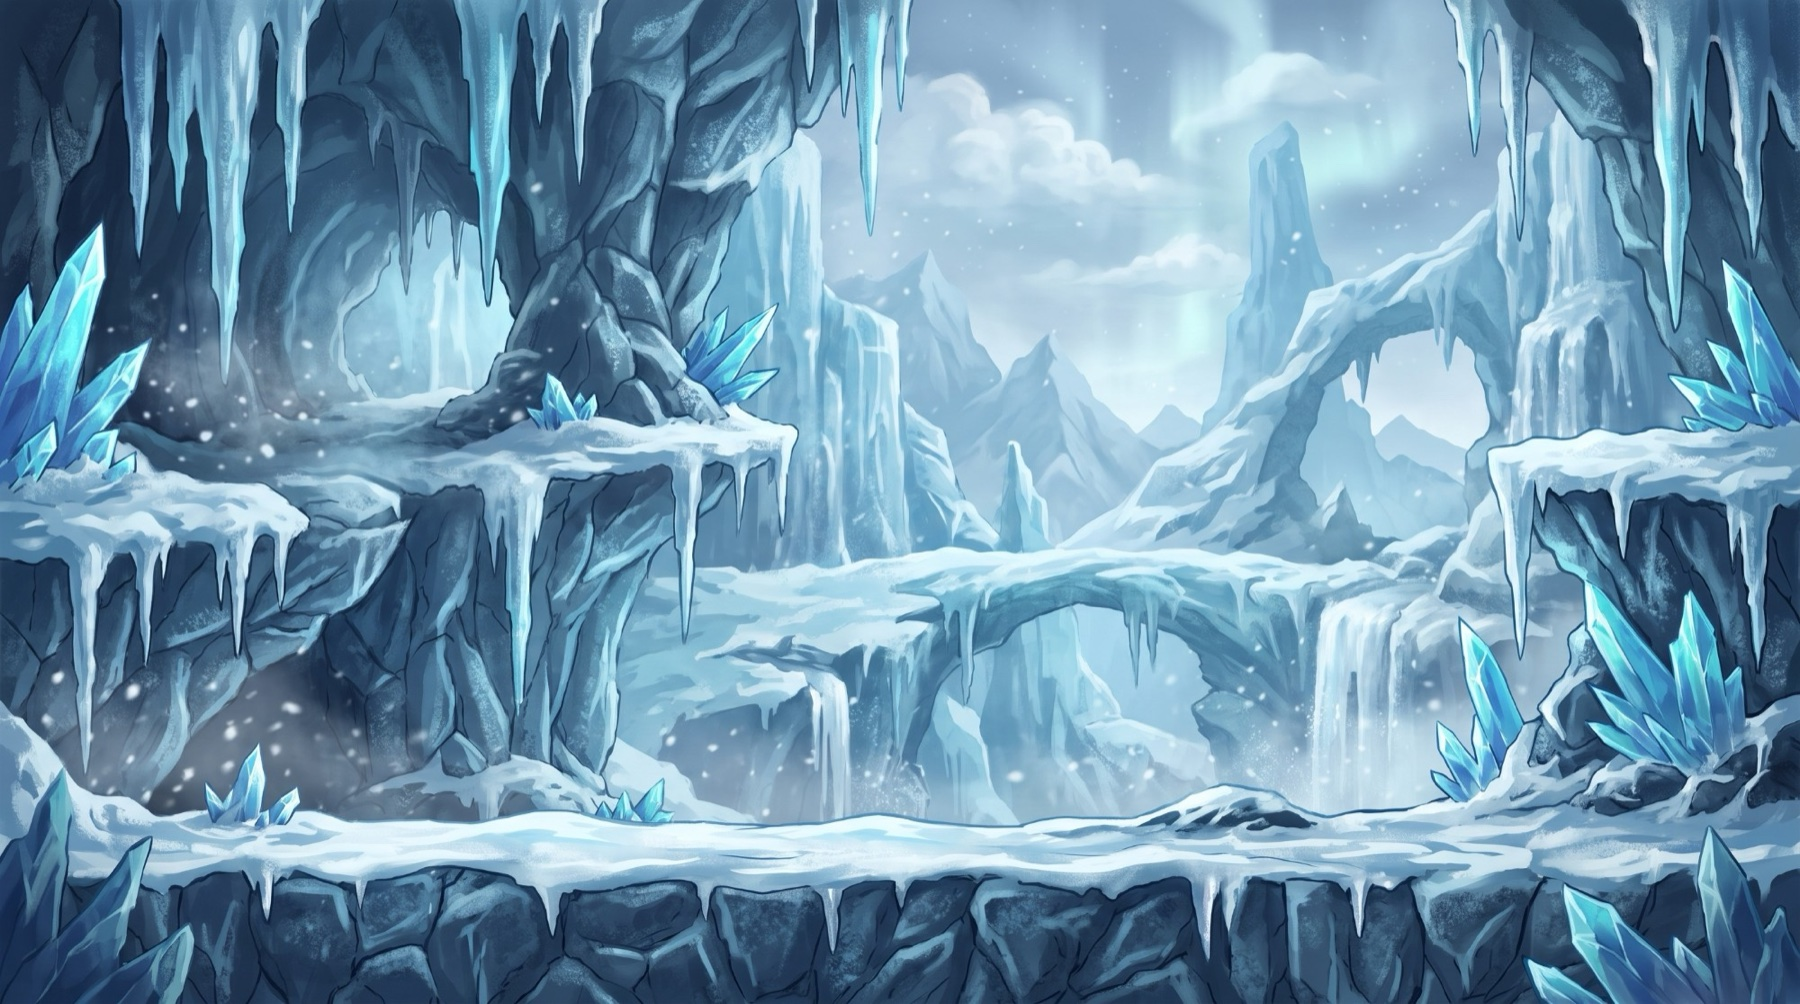
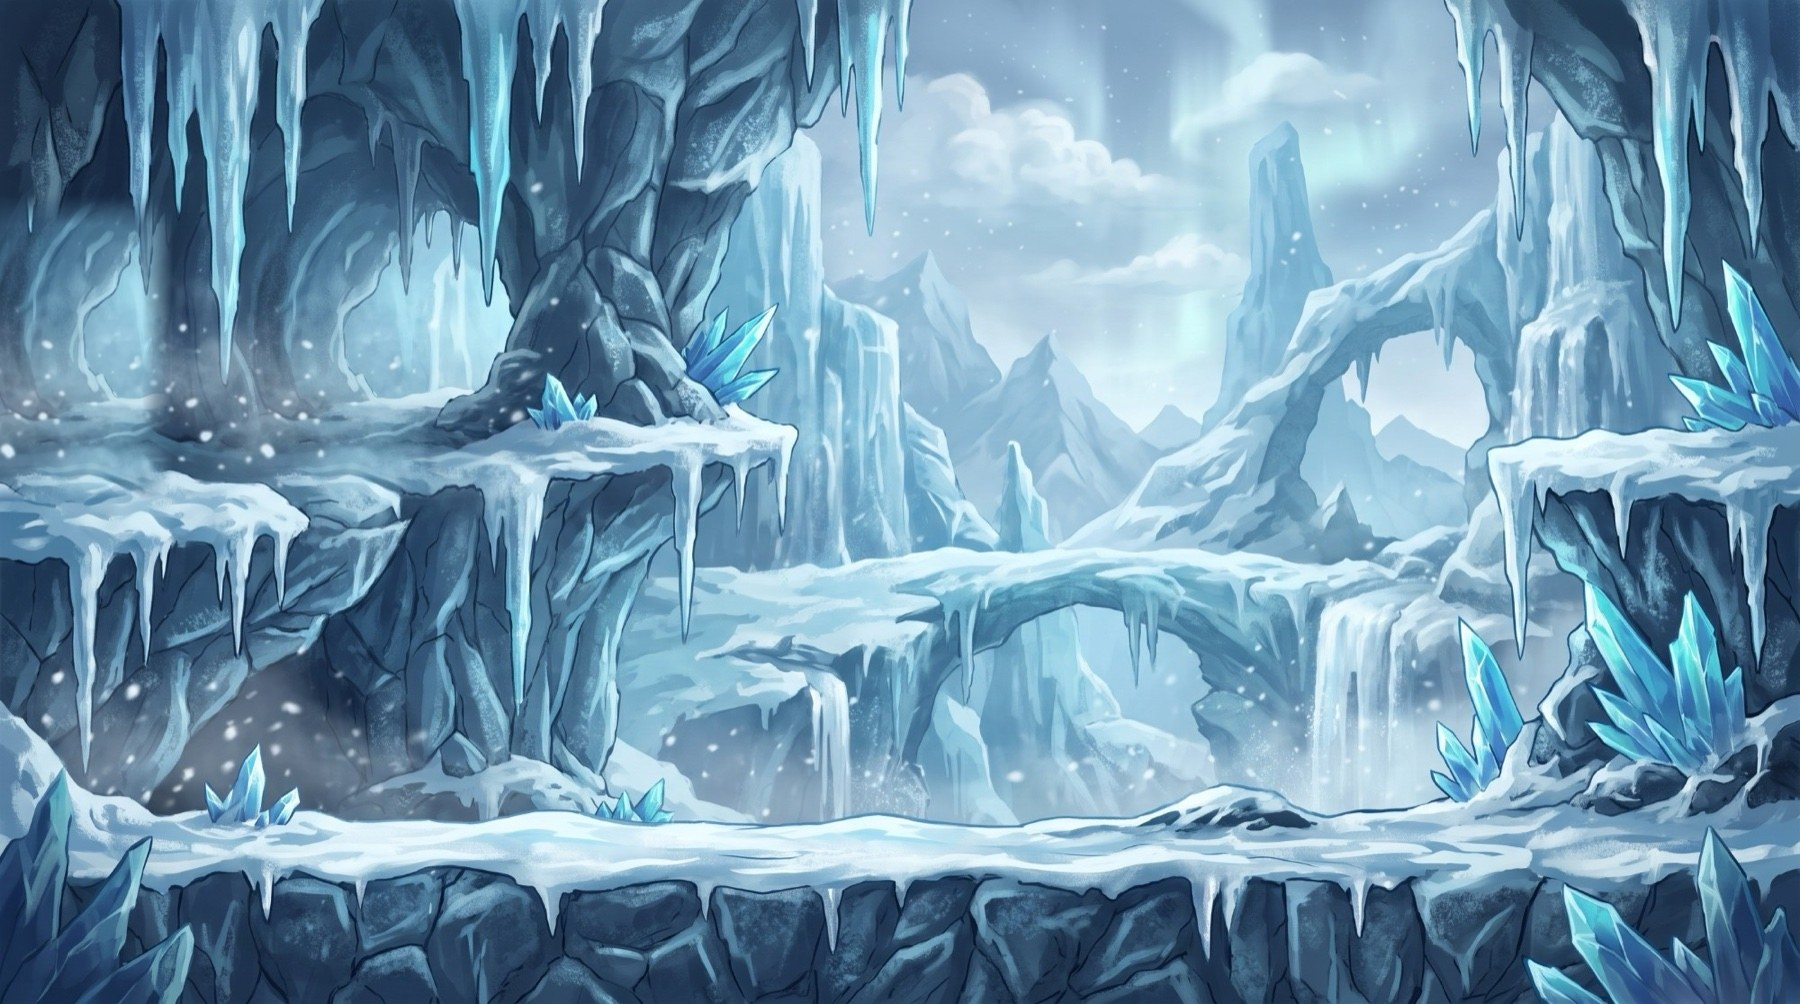
Make Glacier Falls' left-shelf ice breakable, opening a way into the fire boss's room
One hit cracks the crystals, a second shatters them; they fade and the
shelf leads west into the Frozen Spire's east end (and back).

Changed region(s): [[0.0, 0.1853, 0.0933, 0.494]]

diff --git a/index.html b/index.html
@@ -1575,7 +1575,8 @@
       // Not entered through an exit: the Molten Core turns into this stage
       // once the golem is dead. Same floor and width, so the swap is seamless.
       name: "Frozen Spire",
-      exits: { left: 8 },           // right: E, not built yet
+      exits: { left: 8, right: 15 },  // east: once Glacier Falls' crystals are broken, into Glacier Falls
+      crystalBehind: true,
       backdrop: "frost",
       ice: true,
       oneWay: true,
@@ -1952,7 +1953,9 @@
       // world, so they line up). A hole under the ice arch drops into the
       // Frozen Depths.
       name: "Glacier Falls",
-      exits: { right: 7 },
+      exits: { right: 7, left: 3 },   // west: through the crystals, off the low left shelf, into the fire boss's room
+      crystalGate: { edge: 150, top: 120, shelf: 290, x: 92 },   // clear of the flask panel in the corner
+      entryLeft: { x: 30, y: 290 },   // coming back from the boss room: out on the low left shelf
       backdrop: "glacier",
       paintedLevel: true,           // the backdrop is the level: no ground or ledge art drawn over it
       ice: true,
@@ -3021,7 +3024,8 @@
       canDash:false, dashes:0, dashT:0, dashCd:0, airDashUsed:false, dashTrail:[],
       potions:{}, human:false,
       wallHits:0, wallHitCd:0, wallBreakT:-1, wallGone:false,  // the Frozen Den's breakable ice wall
-      hasForceField:false, ffKills:0, ffT:0                    // Itay's heart: a force field every third kill
+      hasForceField:false, ffKills:0, ffT:0,                   // Itay's heart: a force field every third kill
+      crystalHits:0, crystalCd:0, crystalT:-1, crystalGone:false   // Glacier Falls' breakable crystals
     };
     mapOpen = false;
     itemCard = null;
@@ -3118,6 +3122,7 @@
     } else {
       player.x = 40;
       player.facing = 1;
+      if (stage.entryLeft){ player.x = stage.entryLeft.x; player.y = stage.entryLeft.y - player.h; }   // e.g. through Glacier Falls' crystal gap
     }
     player.entryX = player.x;   // where to put the player back after a lava fall
     camX = Math.max(0, Math.min(WORLD_W - VW, player.x + player.w/2 - VW/2));
@@ -3426,7 +3431,7 @@
   // doors between rooms: [roomA, roomB, x, y, vertical]
   var MAP_DOORS = [
     ["12", "0", -9, 28, false], ["0", "1", 121, 28, false], ["1", "4", 251, 28, false], ["4", "5", 381, 28, false],
-    ["1", "boss", 186, 60, true], ["8", "boss", 121, 132, false], ["13", "8", -9, 132, false], ["5", "14", 511, 14, false], ["15", "7", 381, 132, false], ["15", "16", 316, 170, true], ["16", "17", 316, 240, true], ["17", "18", 316, 310, true], ["18", "19", 381, 342, false],
+    ["1", "boss", 186, 60, true], ["8", "boss", 121, 132, false], ["13", "8", -9, 132, false], ["5", "14", 511, 14, false], ["15", "7", 381, 132, false], ["boss", "15", 251, 120, false], ["15", "16", 316, 170, true], ["16", "17", 316, 240, true], ["17", "18", 316, 310, true], ["18", "19", 381, 342, false],
     ["5", "6", 446, 60, true], ["6", "7", 446, 100, true],
     ["9", "10", 816, -172, true], ["10", "11", 881, -222, false]
   ];
@@ -4147,11 +4152,11 @@
 
     // Walking off an edge that has an exit moves to that stage.
     var exits = STAGES[stageIndex].exits || {};
-    if (player.x + player.w >= WORLD_W && player.vx > 0 && exits.right !== undefined && !labLocked()){
+    if (player.x + player.w >= WORLD_W && player.vx > 0 && exits.right !== undefined && !labLocked() && gateOpen("right")){
       loadStage(exits.right, "left");
       return;
     }
-    if (player.x <= 0 && player.vx < 0 && exits.left !== undefined){
+    if (player.x <= 0 && player.vx < 0 && exits.left !== undefined && gateOpen("left")){
       loadStage(exits.left, "right");
       return;
     }
@@ -4161,6 +4166,10 @@
     if (throughWall && player.x <= 0 && player.vx < 0){ loadStage(lwall.breakTo, "right"); return; }
     if (lwall && !throughWall && player.x < lwall.edge){ player.x = lwall.edge; if (player.vx < 0) player.vx = 0; }
     if (STAGES[stageIndex].rightWall && player.x + player.w > TREE_WALL_EDGE() && player.y + player.h > TREE_TOP_Y + 12){ player.x = TREE_WALL_EDGE() - player.w; if (player.vx > 0) player.vx = 0; }
+    var cg = STAGES[stageIndex].crystalGate;
+    if (cg && !player.crystalGone && player.x < cg.edge && player.y + player.h > cg.top && player.y + player.h <= cg.shelf + 12){
+      player.x = cg.edge; if (player.vx < 0) player.vx = 0;
+    }
     var aw = STAGES[stageIndex].arenaWall;
     if (aw && arenaWallUp() && player.x < aw[1] + 6){ player.x = aw[1] + 6; if (player.vx < 0) player.vx = 0; }
     if (player.x + player.w > WORLD_W) player.x = WORLD_W - player.w;
@@ -4237,6 +4246,7 @@
     }
 
     updateIceWall(dt, hitbox);
+    updateCrystalGate(dt, hitbox);
 
     for (var i=0;i<enemies.length;i++){
       var en = enemies[i];
@@ -6936,8 +6946,8 @@
       ctx.textAlign = "left";
     }
     var exits = STAGES[stageIndex].exits || {};
-    if (exits.left !== undefined) hint(0, -1);
-    if (exits.right !== undefined && !labLocked() && !STAGES[stageIndex].rightWall) hint(WORLD_W, 1);   // over the tree is a secret
+    if (exits.left !== undefined && gateOpen("left", true)) hint(0, -1);
+    if (exits.right !== undefined && !labLocked() && !STAGES[stageIndex].rightWall && gateOpen("right", true)) hint(WORLD_W, 1);   // over the tree is a secret
   }
 
   function drawStageBanner(){
@@ -7638,6 +7648,7 @@
     }
     drawProps();
     drawArenaWall();
+    drawCrystalGate();
     drawRightWall();
     drawSummit();
     drawFinishGate();
@@ -8009,6 +8020,60 @@
     var w = treeWallW(), x = WORLD_W - w - camX;
     if (x > VW) return;
     ctx.drawImage(trimmedTree(), x, GROUND_Y + 40 - TREE_H, w, TREE_H);
+  }
+  // Glacier Falls' crystal cluster: it seals the passage west off the low
+  // left shelf. The first hit cracks it, the second shatters it; it holds a
+  // moment, fades, and the way west into the fire boss's room is open (for
+  // good, both ways). stage.crystalGate = { edge, top, shelf, x }:
+  //   edge = the cluster's east face, top/shelf = the band it blocks, x = its centre.
+  var CRYSTAL_ART = [0, 1, 2].map(function(i){ return loadArt("assets/glacier_crystal_" + i + ".webp"); });
+  var CRYSTAL_H = 170, CRYSTAL_HOLD = 26, CRYSTAL_FADE = 34;
+  function gateOpen(side, forHint){
+    var st = STAGES[stageIndex], cg = st.crystalGate;
+    if (cg && side === "left"){
+      if (!player.crystalGone) return false;
+      return forHint || player.y + player.h <= cg.shelf + 12;     // only off the shelf, not the cave floor below
+    }
+    if (st.crystalBehind && side === "right") return !!player.crystalGone;
+    return true;
+  }
+  function updateCrystalGate(dt, hitbox){
+    var cg = STAGES[stageIndex].crystalGate, p = player;
+    if (!cg || p.crystalGone) return;
+    if (p.crystalCd > 0) p.crystalCd -= dt;
+    if (p.crystalT >= 0 && p.crystalHits >= 2){
+      p.crystalT += dt;
+      if (p.crystalT > CRYSTAL_HOLD + CRYSTAL_FADE){ p.crystalGone = true; }
+      return;
+    }
+    var box = rect(cg.x - 60, cg.shelf - CRYSTAL_H + 20, 120, CRYSTAL_H - 20);
+    if (!hitbox || p.crystalCd > 0 || !intersects(hitbox, box)) return;
+    p.crystalCd = 20;
+    p.crystalHits = (p.crystalHits || 0) + 1;
+    var last = p.crystalHits >= 2;
+    playIceBreak();
+    shake = Math.max(shake, last ? 14 : 7);
+    buzz(last ? [60, 40, 120] : [40]);
+    hitStop = Math.max(hitStop, 4);
+    for (var i = 0; i < (last ? 46 : 18); i++){
+      var ang = Math.PI * (0.55 + Math.random() * 0.9), sp = 1.5 + Math.random() * (last ? 6 : 4), life = 20 + Math.random() * 26;
+      explosionParticles.push({ x: cg.edge - 10, y: cg.shelf - 40 - Math.random() * 90, vx: -Math.cos(ang) * sp * -1, vy: -Math.abs(Math.sin(ang)) * sp,
+        life: life, maxLife: life, size: 1.5 + Math.random() * 3, color: ["235,250,255", "150,215,255", "90,170,230"][i % 3] });
+    }
+    if (last) p.crystalT = 0;
+  }
+  function drawCrystalGate(){
+    var cg = STAGES[stageIndex].crystalGate, p = player;
+    if (!cg || !p || p.crystalGone) return;
+    var hits = Math.min(2, p.crystalHits || 0), a = CRYSTAL_ART[hits];
+    if (!a.ready) a = CRYSTAL_ART[0];
+    if (!a.ready) return;
+    var h = CRYSTAL_H, w = h * a.naturalWidth / a.naturalHeight;
+    if (hits === 2) { var a0 = CRYSTAL_ART[0]; if (a0.ready) w = h * a0.naturalWidth / a0.naturalHeight; h = w * a.naturalHeight / a.naturalWidth; }   // the broken frame is shorter: same width, same base
+    var alpha = p.crystalT > CRYSTAL_HOLD ? Math.max(0, 1 - (p.crystalT - CRYSTAL_HOLD) / CRYSTAL_FADE) : 1;
+    ctx.save(); ctx.globalAlpha = alpha;
+    ctx.drawImage(a, cg.x - w / 2 - camX, cg.shelf + 10 - h, w, h);
+    ctx.restore();
   }
   function drawLeftWall(){
     var lw = STAGES[stageIndex].leftWall, a = ICE_WALL[0];

diff --git a/README.md b/README.md
@@ -24,12 +24,12 @@ The route: Ember Hollow, down into the golem's room, beat it, climb the Frozen S
 1. **Moonlit Ridge**: solid ground and scattered rock ledges. You arrive here through the village's vortex. Exit east to Ember Hollow.
 2. **Ember Hollow**: lava pits in the ground (falling in costs one flask hit and sends you back to the stage entrance), a high staircase route and more, faster imps. The last pit is a dark shaft instead of lava: drop into it to reach the Molten Core. Exit east to Ashen Woods.
 3. **Molten Core**: a volcanic cavern arena with the **Magma Golem** boss (14 hits). It throws fireballs (swat them with your attack), leaps at you and sends ground shockwaves (jump them), and breathes fire. Below half health it speeds up and throws three fireballs at once. Beating it shatters the golem, flings out its still-pumping **heart** (grab it to fill your flask and unlock the **double jump**: press jump again in mid-air; once the frost settles a card with a looping demo shows how, and stays up until you've tried it) and a wave of frost turns the cavern into ice for good. In fire form you take no damage and touching the golem hurts it.
-4. **Frozen Spire**: the frozen cavern becomes the bottom of a tall ice shaft. Climb about 40 ice ledges (you can jump up through them from below) past winged imps that hover over the ledges, fly between them and swoop at you when you get close. Jump up from the glowing summit to climb back out into Ember Hollow. Its west side opens into the Smoldering Den (the east side, E on the map, is not built yet).
+4. **Frozen Spire**: the frozen cavern becomes the bottom of a tall ice shaft. Climb about 40 ice ledges (you can jump up through them from below) past winged imps that hover over the ledges, fly between them and swoop at you when you get close. Jump up from the glowing summit to climb back out into Ember Hollow. Its west side opens into the Smoldering Den and its east end leads to Glacier Falls once you've broken through Glacier Falls' ice crystals.
 5. **Ashen Woods**: grey forest east of Ember Hollow. Its last lava gap is too wide for one jump: you need the golem's double jump to reach Cinder Cliffs.
 6. **Cinder Cliffs**: red-lit cliffs with winged imps; the last pit is a shaft down into The Chute. A gnarled old tree closes off the east end: you stop at its trunk (it's trimmed back so nothing hangs over the shaft). Two ledges climb up beside it: from the top one, double-jump over the top of the trunk to find Agam's squishy forest.
 7. **The Chute**: a narrow, tall shaft. Work your way down the ledges past winged imps; the pit at the bottom drops into the Obsidian Gate. Double-jump up out of the top to go back to Cinder Cliffs.
 8. **Obsidian Gate**: frozen wastes with frost golems and wisps, then the **Frost Wyrm**. When it wakes, a wall of ice rises out of the last pit behind you so you can't run; once the wyrm is dead the wall cracks apart (the same crack frames as the Frozen Den's wall) and melts away. When the wyrm bursts apart it flings out its still-beating **frozen heart**: touch it to fill your flask and unlock the **dash** (a card with a looping demo shows how, and stays up until you've dashed twice): press **Shift** (or **C**, or tap the DASH button) for a fast, flat burst the way you're facing. You pass straight through enemies and their attacks while it lasts; on the ground it recharges in about half a second, and in the air you get one dash per jump. A high ice ledge near the start, under a beam of light, leads back: jump up off it to climb into The Chute.
-- **Glacier Falls**: west of the Obsidian Gate (walk off its west edge). A single frozen screen whose ledges are the ones painted in its backdrop: the art is drawn 1:1 with the world, so standing on a painted shelf means standing on a real ledge. The shelves at the left and right are ledges, reached with a double jump from the ground; the snowy ice arch in the middle is far in the background, so it isn't one. A hole in the ground under the ice arch drops into the Frozen Depths.
+- **Glacier Falls**: west of the Obsidian Gate (walk off its west edge). A single frozen screen whose ledges are the ones painted in its backdrop: the art is drawn 1:1 with the world, so standing on a painted shelf means standing on a real ledge. The shelves at the left and right are ledges, reached with a double jump from the ground; the snowy ice arch in the middle is far in the background, so it isn't one. A hole in the ground under the ice arch drops into the Frozen Depths. On the low left shelf a cluster of ice crystals seals a passage west: the first sword hit cracks it, the second shatters it, and it fades away, opening the way (for good, both ways) into the fire boss's room, the Frozen Spire, arriving at its east end.
 - **Frozen Depths**: below Glacier Falls' hole, a root-choked cave with an underground river. Like Glacier Falls, its painting is the level: you drop onto the top-left shelf under the light, and every ledge is a painted one (the shelves down the left side, a little stepping stone, the root-tangled shelf over the river, the river bank on the right, one smooth curved slope you walk up and down and a high mossy ledge at the top right, which needs a double jump). Falling into the river drops you down into the Root Hollow. The way back is where you dropped in: jump straight up off the top-left shelf, through the beam of light, and you pop back up beside the hole in Glacier Falls.
 - **Root Hollow**: below the Frozen Depths' river, a deep root hollow over a chasm. Its painting is the level too: the mossy arch on the left is one curved slope you walk along, the stone stairs in the middle step down to the right, a tunnel floor with glowing mushrooms runs underneath, and rocks float over the chasm up to a mossy ledge on the far right. You drop in onto the big floating rock; the way back is to jump straight up off it, through the beam of light, and you pop up beside the river in the Depths. Falling into the chasm costs a hit and puts you back on that rock. On the tunnel floor, the big black cave mouth is a doorway: stand in front of it (a pulsing ▼ marks it, and a "↓ ENTER" prompt pops up over your head) and press **Down** to go into the Dark Burrow.
 - **Dark Burrow**: through the Root Hollow's cave mouth, with a packed-earth floor. Empty for now; press Down at the doorway you came in by to go back out, or walk east into the Deep Tunnels.
@@ -125,6 +125,7 @@ assets/          all sprite sheets, art, and audio referenced by index.html
 | `depths_background.jpg` | Frozen Depths backdrop, which is also the level: its painted shelves are the ledges |
 | `hollow_background.jpg` | Root Hollow backdrop, which is also the level: its painted shelves, stairs and arch are the ledges |
 | `earth_*.webp` | The Earth Golem: `idle0-1`, `walk0-2`, `slam0-3`, `throw0-2`, `defeat0-1` (`defeat1`, the heap, is also how he lies buried before the fight), all facing right, plus his thrown `rock` |
+| `glacier_crystal_0-2.webp` | Glacier Falls' breakable ice crystals: intact, cracked (after one hit), shattered (after two). The cluster that was painted in the backdrop at that spot has been painted out |
 | `village_background.jpg` | Burning Village (prologue) backdrop |
 | `plat_village_floor.png` | Burning Village cobbled street: tiled for the ground |
 | `title_poster.jpg` | Title-screen poster (shadow form / human form), with the Enter the Void button low so it doesn't cover the faces |
